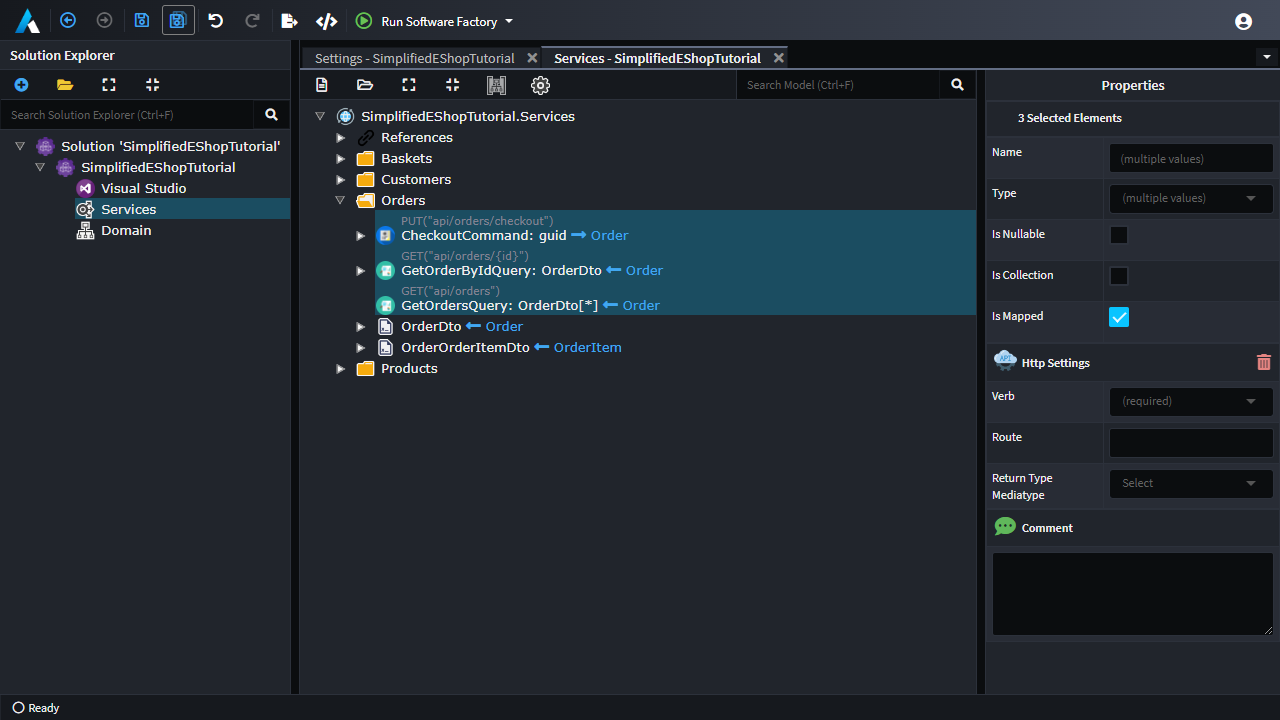
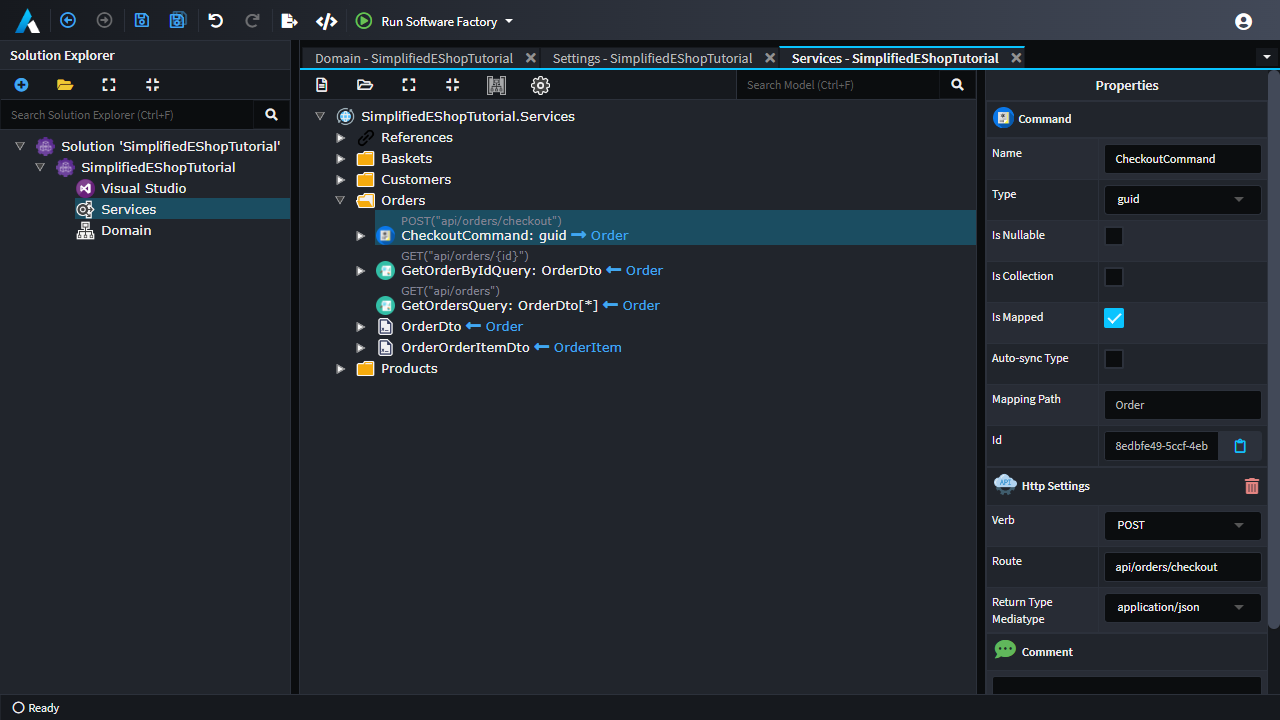
First Draft done

diff --git a/articles/getting-started/tutorials/building-an-application/building-an-application.md b/articles/getting-started/tutorials/building-an-application/building-an-application.md
@@ -361,6 +361,10 @@ Next you will modify the `CreateOrderCommand` to how you would like the check ou
 Expose your services.
 
 * Expose your `Order` commands and queries as Http EndPoints.
+* Select the `CheckoutCommand`
+* In the `Properties` panel, in the `Http Settings` section
+    * Change the `Verb` to `Post`.
+    * Change the `Route` to `api/orders/checkout`.
 
 ![Expose Order Service](images/expose-order-service.png)
 
@@ -394,18 +398,88 @@ You should be presented with a Swagger UI as follows:
 
 ![Home Screen](images/swagger-home.png)
 
-Take a look at all the end points, you should see all the services you designed in Intent Architect.
+Take a look at all the end points, you should see all the services you designed in Intent Architect. 
 
-First thing we need to do is create a Customer.
+First thing you need to do is create a Customer.
+* Click on the `Post /api/customers` row in the Customers section.
+* Click `Try it out` button on the right hand side.
+* In the `Request Body` json fill in
+```json
+{
+  "name": "Customer1",
+  "email": "Customer1@Somewhere.com"
+}
+```
+* Click the big blue `Execute` button
 
-Then we can create a product.
+![Create a customer](images/rest-create-customer-response.png)
 
-Check our shopping cart is empty.
+* Record the `CustomerId` response as you will need it later.
 
-Add to the Cart.
+In a similar fashion you can create a `Product` using the `Post /api/products` row in the Products section. Don't forget to record your `ProductId` so we can use it later.
 
-Check out.
+Next lets check our customers shopping cart.
 
-Confirm our order is placed.
+* Click on the `Post /api/baskets/{id}` row in the Basketss section.
+* Click `Try it out` button on the right hand side.
+* Fill in your `CustomerId` in the `Id` field
+* Click the big blue `Execute` button
+
+You should get back an empty `Basket` as follows.
+
+![Empty Shopping Basket](images/rest-empty-basket.png)
+
+Lets add an Item to the Cart.
+
+* Click on the `Post /api/baskets/{id}/add` row in the Basketss section.
+* Click `Try it out` button on the right hand side.
+* Fill in your `CustomerId` in the `Id` field
+* In the `Request Body` json fill in
+```json
+{
+  "basketId": "{CustomerId}",
+  "productId": "{ProductId}",
+  "quantity": 1,
+  "unitPrice": 200
+}
+```
+* Click the big blue `Execute` button
+
+Let's check the `BasketItem` is in our `Basket`.
+* Click on the `Post /api/baskets/{id}` row in the Baskets section.
+* Click `Try it out` button on the right hand side.
+* Fill in your `CustomerId` in the `Id` field
+* Click the big blue `Execute` button
+
+You should get a result similar to this:
+
+![Shopping Basket With Item](images/rest-basket-with-item.png)
+
+Now you can Checkout your `Order`.
+* Click on the `Post /api/orders/checkout` row in the Orders section.
+* Click `Try it out` button on the right hand side.
+* In the `Request Body` json fill in
+```json
+{
+  "basketId": "{CustomerId}"
+}
+```
+* Click the big blue `Execute` button
+* Record the `OrderId` response as you will need use it now to retrieve the order.
+
+Query the `Order` to confirm it's placed.
+* Click on the `Get /api/orders/{id}` row in the Orders section.
+* Click `Try it out` button on the right hand side.
+* Fill in your `OrderId` in the `Id` field
+* Click the big blue `Execute` button
+
+You should get a result similar to this:
+
+![Shopping Basket With Item](images/rest-basket-with-item.png)
+
+## Summary
+
+Congratulation's you have build an application using Intent Architect.
+
 
 
